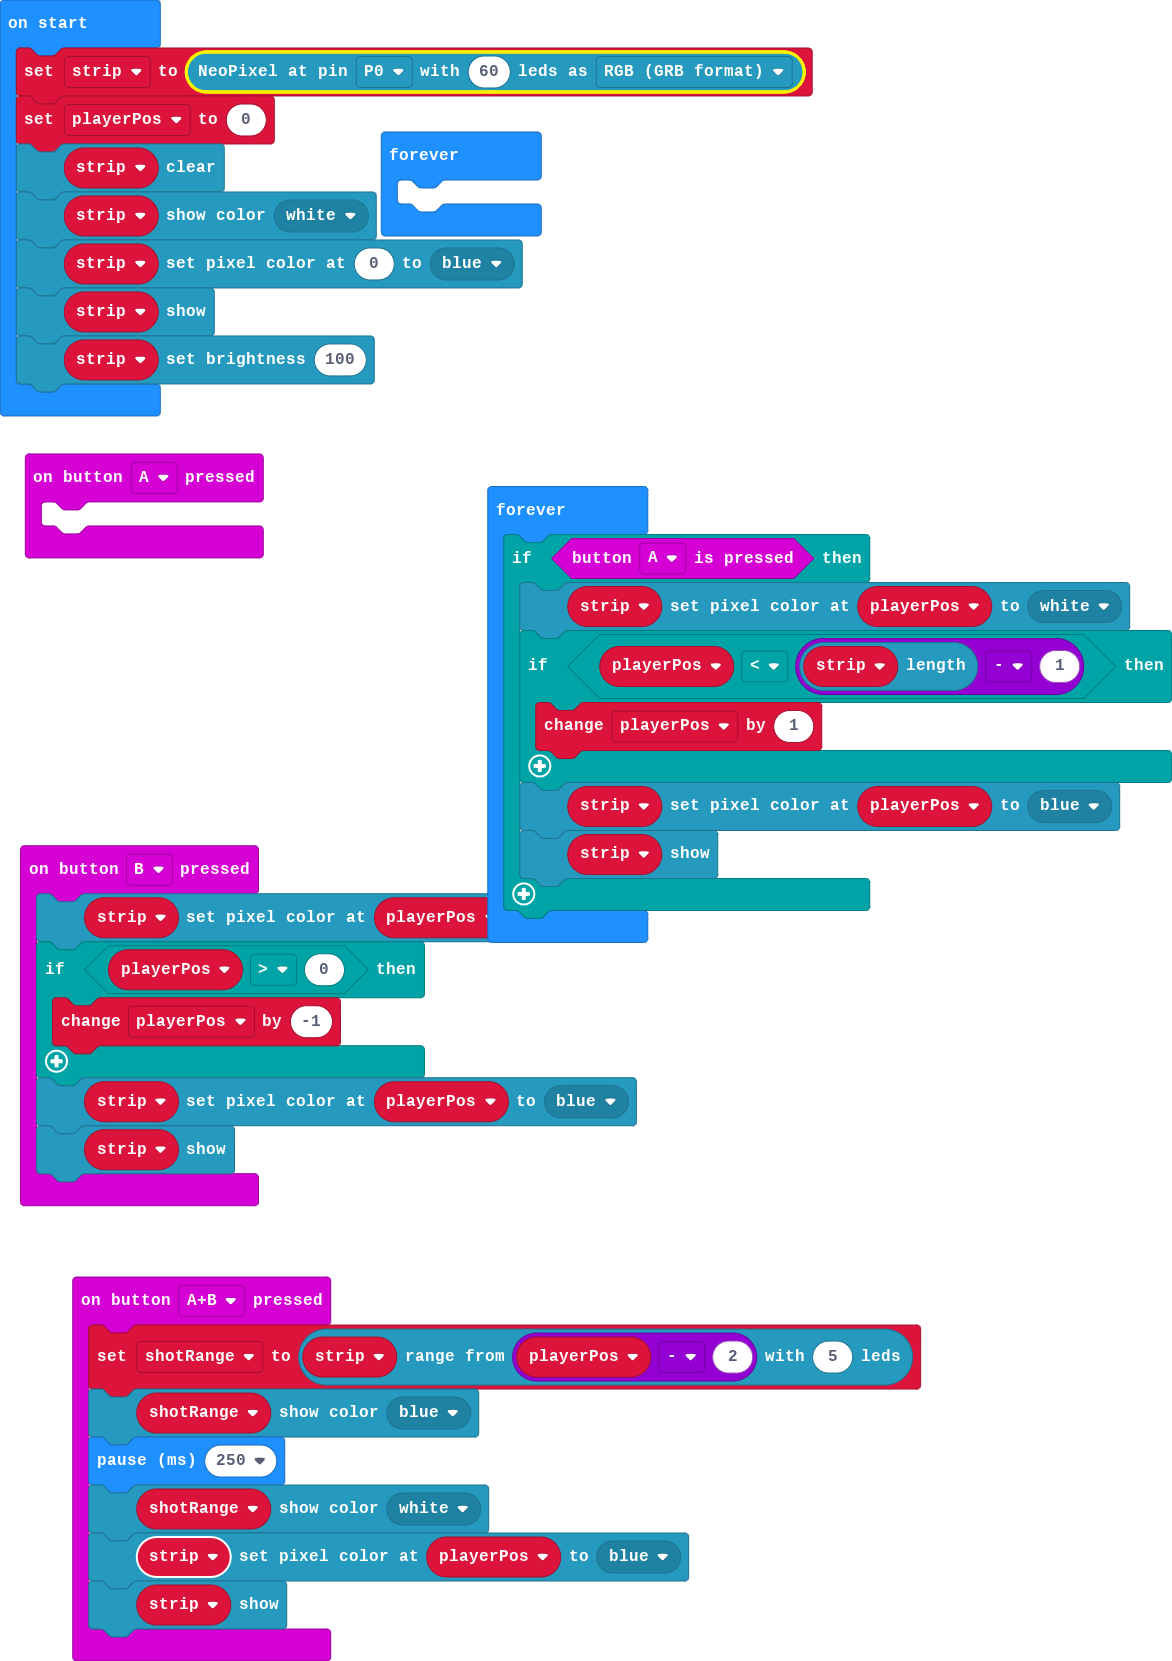
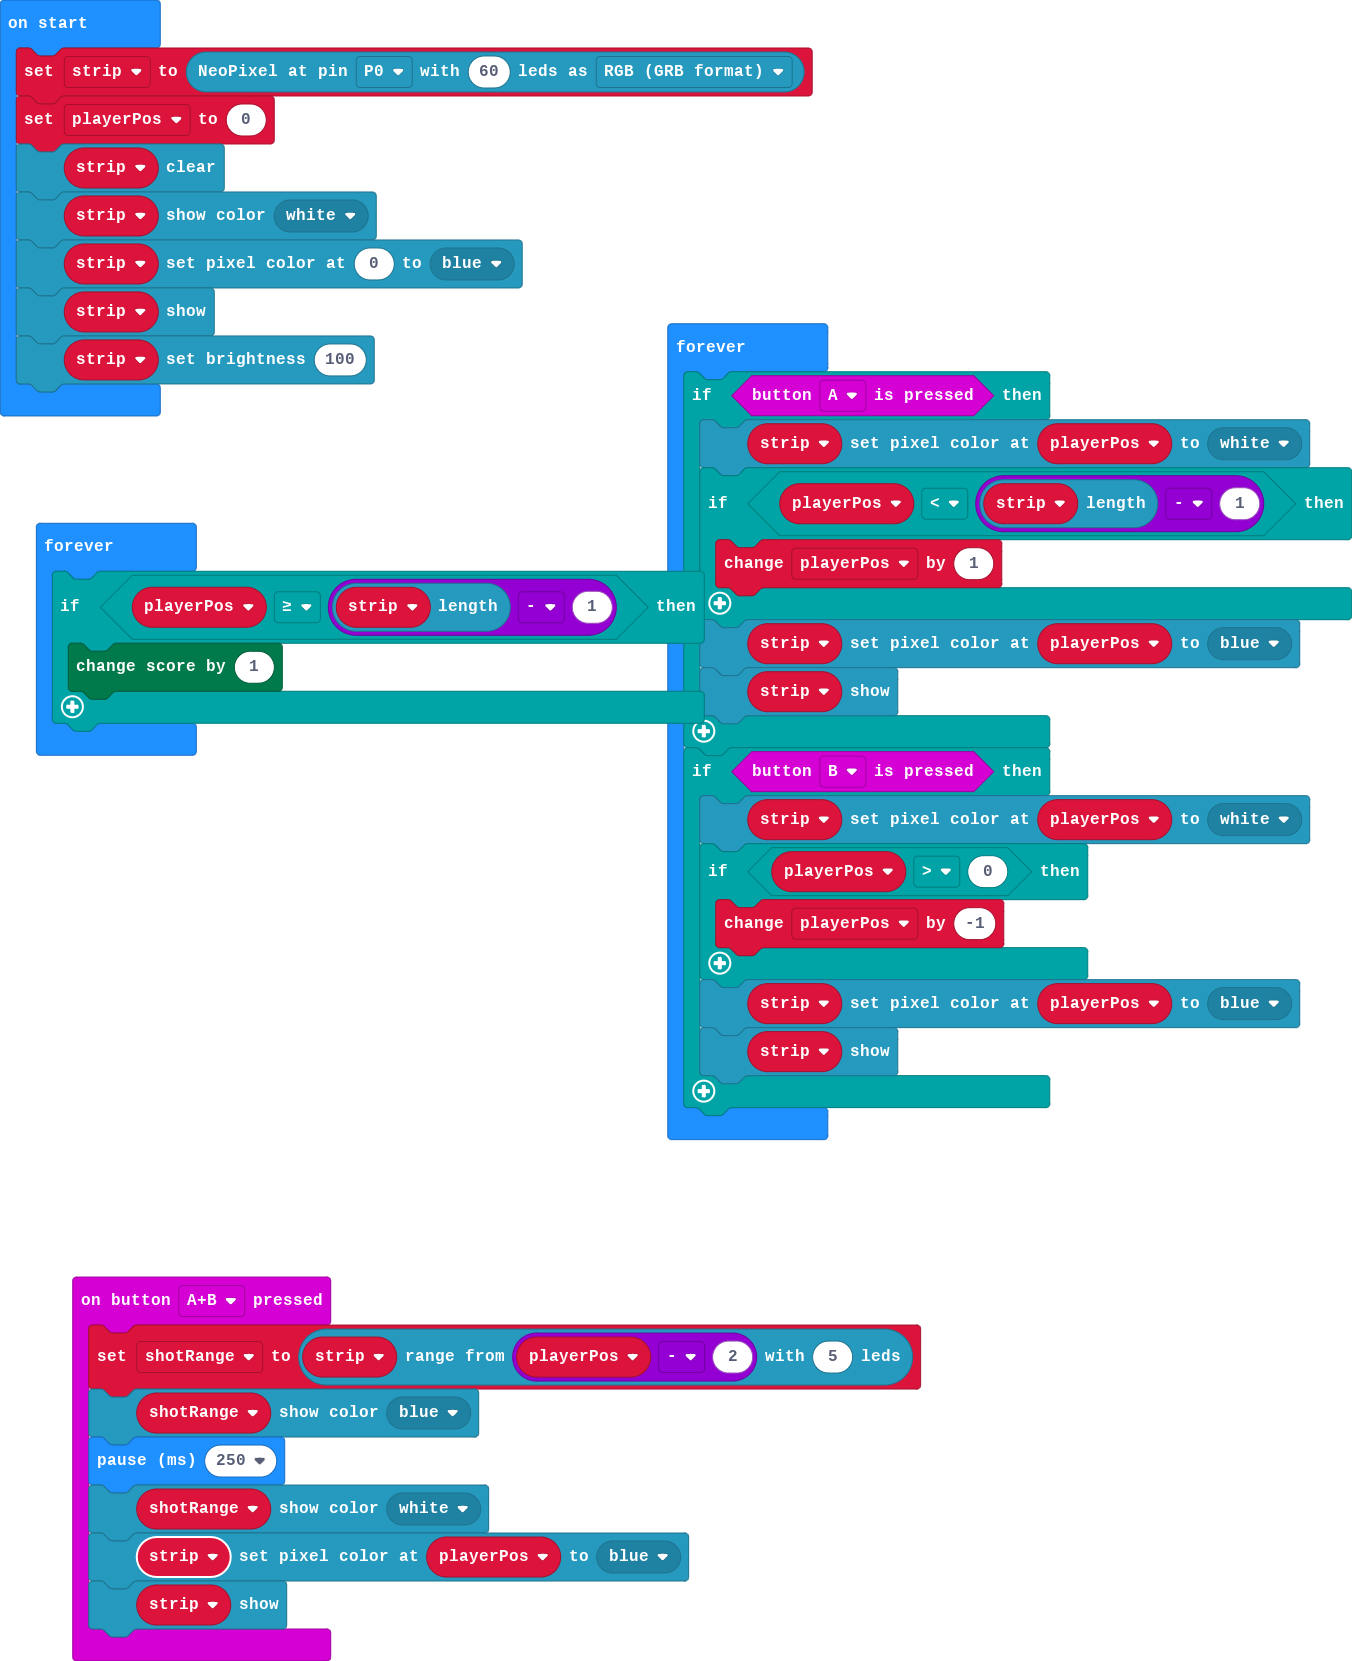
Changed controls a little. Started the score system.

diff --git a/main.ts b/main.ts
@@ -1,19 +1,8 @@
-input.onButtonPressed(Button.A, function () {
-	
-})
 input.onButtonPressed(Button.AB, function () {
     shotRange = strip.range(playerPos - 2, 5)
     shotRange.showColor(neopixel.colors(NeoPixelColors.Blue))
     basic.pause(250)
     shotRange.showColor(neopixel.colors(NeoPixelColors.White))
-    strip.setPixelColor(playerPos, neopixel.colors(NeoPixelColors.Blue))
-    strip.show()
-})
-input.onButtonPressed(Button.B, function () {
-    strip.setPixelColor(playerPos, neopixel.colors(NeoPixelColors.White))
-    if (playerPos > 0) {
-        playerPos += -1
-    }
     strip.setPixelColor(playerPos, neopixel.colors(NeoPixelColors.Blue))
     strip.show()
 })
@@ -28,9 +17,6 @@ strip.setPixelColor(0, neopixel.colors(NeoPixelColors.Blue))
 strip.show()
 strip.setBrightness(100)
 basic.forever(function () {
-	
-})
-basic.forever(function () {
     if (input.buttonIsPressed(Button.A)) {
         strip.setPixelColor(playerPos, neopixel.colors(NeoPixelColors.White))
         if (playerPos < strip.length() - 1) {
@@ -38,5 +24,18 @@ basic.forever(function () {
         }
         strip.setPixelColor(playerPos, neopixel.colors(NeoPixelColors.Blue))
         strip.show()
+    }
+    if (input.buttonIsPressed(Button.B)) {
+        strip.setPixelColor(playerPos, neopixel.colors(NeoPixelColors.White))
+        if (playerPos > 0) {
+            playerPos += -1
+        }
+        strip.setPixelColor(playerPos, neopixel.colors(NeoPixelColors.Blue))
+        strip.show()
+    }
+})
+basic.forever(function () {
+    if (playerPos >= strip.length() - 1) {
+        game.addScore(1)
     }
 })
